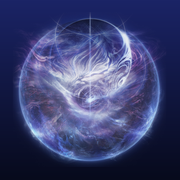
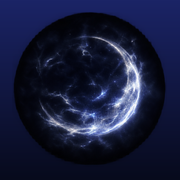
アプリのアイコンを Icon2（青い三日月）に差し替え
- ホーム画面・ブラウザのタブ・画面左上のロゴを Images/Icon2.png から作り直し（tools/make_app_icons.py）
- sw.js の VERSION を v25 に

diff --git a/sw.js b/sw.js
@@ -1,6 +1,6 @@
 // オフラインでも開けるようにするための service worker。
 // 画面やデータのファイルを直したら、下の VERSION を1つ上げてください（利用者の端末で新しい版に入れ替わります）。
-const VERSION = 'v24';
+const VERSION = 'v25';
 const CACHE = `yowatari-nikki-${VERSION}`;
 const FILES = [
   './', './index.html', './manifest.webmanifest',

diff --git a/tools/make_app_icons.py b/tools/make_app_icons.py
@@ -1,11 +1,11 @@
-"""アプリのアイコン（ホーム画面・ブラウザのタブ・画面左上のロゴ）を、元画像 Images/Icon.webp から作る。
+"""アプリのアイコン（ホーム画面・ブラウザのタブ・画面左上のロゴ）を、元画像 Images/Icon2.png から作る。
 使い方：python tools/make_app_icons.py
 元画像を差し替えたら、もう一度実行してください。"""
 import os
 from PIL import Image, ImageDraw
 
 ROOT = os.path.join(os.path.dirname(os.path.abspath(__file__)), '..')
-SRC = os.path.join(ROOT, 'Images', 'Icon.webp')
+SRC = os.path.join(ROOT, 'Images', 'Icon2.png')  # 2026-11-23 差し替え（元：Icon.webp）
 OUT = os.path.join(ROOT, 'icons')
 
 TOP, BOTTOM = (27, 36, 102), (7, 10, 28)  # アプリの夜空と同じ色（上→下）
